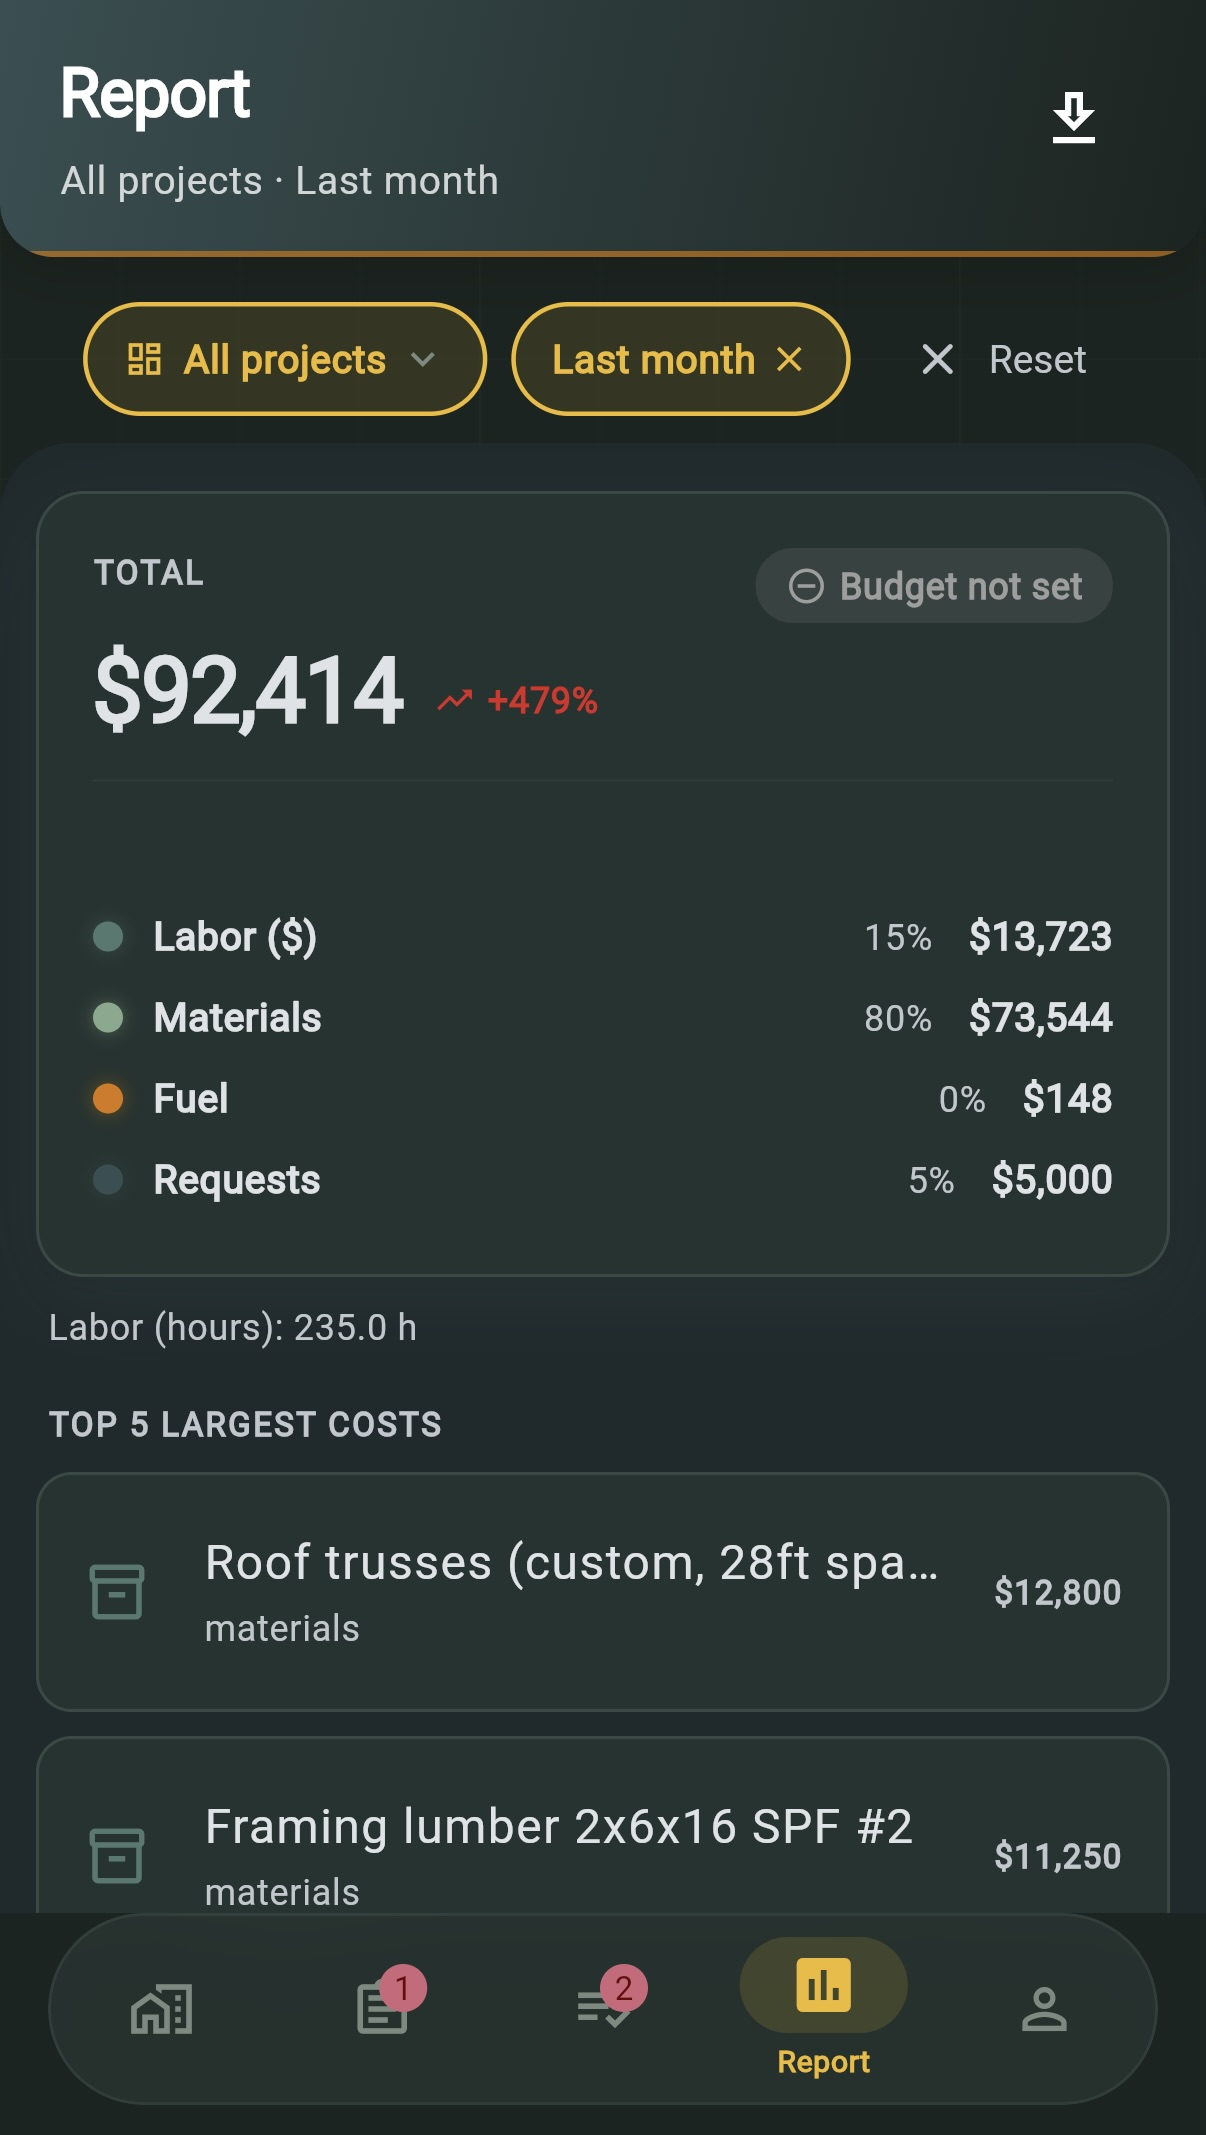
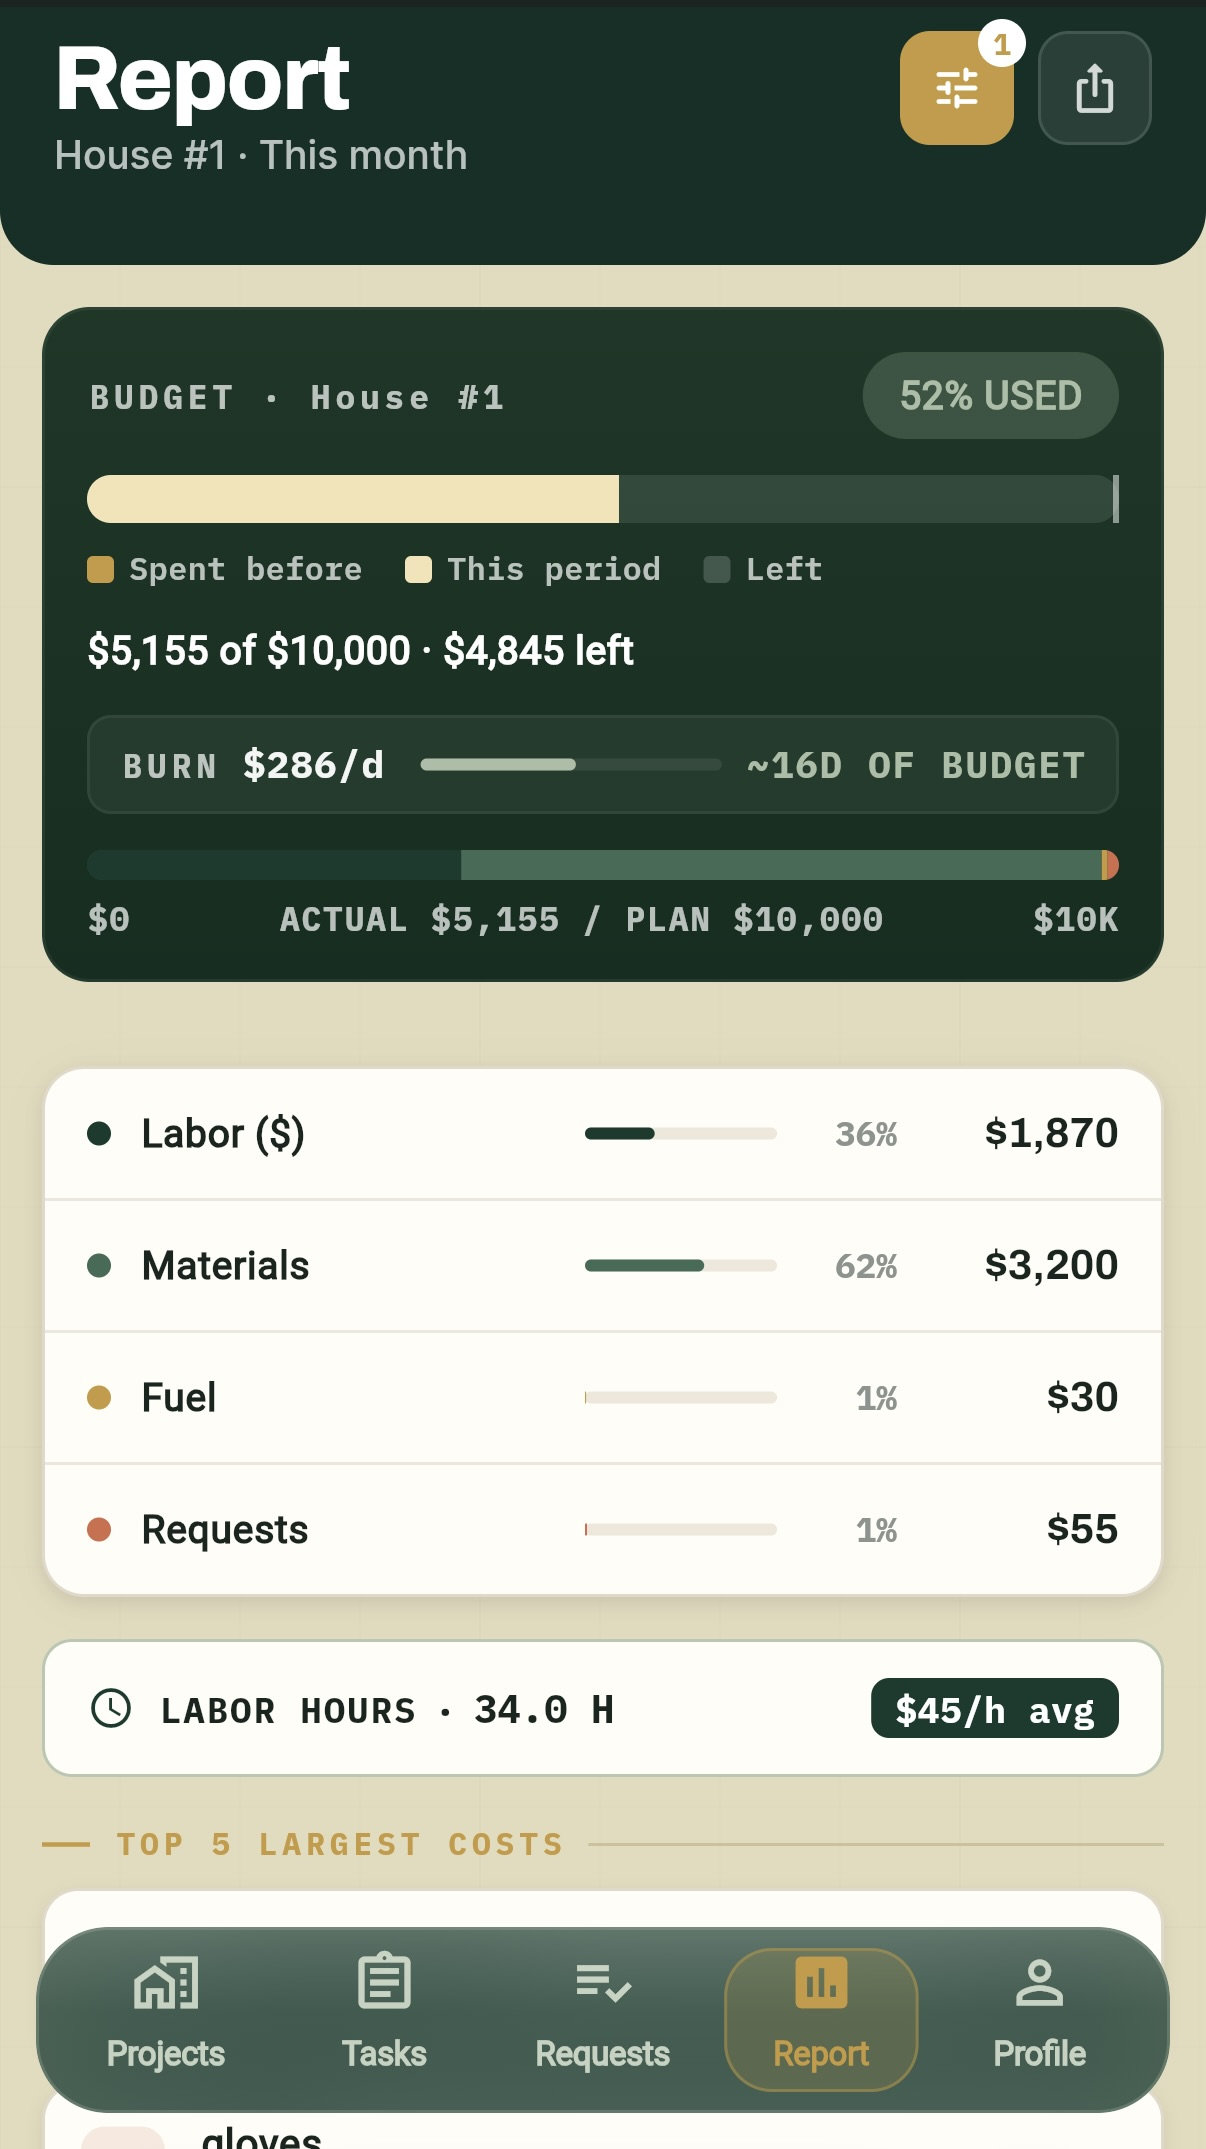
feat(how-it-works): refresh app screenshots to redesigned UI + drop fake notch
Swap the four How-it-works phone shots for the new forest/sage/cream
app build (was the orange pre-redesign UI) and update alt text to match:
projects overview, worker My Day, task detail w/ crew chat, project report.
Remove the drawn notch from both mobile and desktop phone mockups.

diff --git a/src/components/HowItWorks.tsx b/src/components/HowItWorks.tsx
@@ -21,7 +21,7 @@ const STEPS: Step[] = [
     body:
       "Name, address, plan number, and a rough budget. You're set up in under a minute — no onboarding call, no sales demo.",
     screenshot: "/screenshots/projects.jpeg",
-    alt: "Projects list screen",
+    alt: "Projects overview screen showing budgets and at-risk jobs",
   },
   {
     num: "02",
@@ -29,7 +29,7 @@ const STEPS: Step[] = [
     body:
       "Text them a link. They install in 30 seconds and tap their name. Workers only see what matters to them — their tasks, their hours, their paystub.",
     screenshot: "/screenshots/worker-view.jpeg",
-    alt: "Worker home screen",
+    alt: "Worker daily home screen with earnings, hours, and today's tasks",
   },
   {
     num: "03",
@@ -37,7 +37,7 @@ const STEPS: Step[] = [
     body:
       "Crew clocks in, logs materials and fuel, closes tasks. Everything works offline and syncs when signal comes back — no lost data, no duplicated entries.",
     screenshot: "/screenshots/tasks.jpeg",
-    alt: "Tasks and requests screen",
+    alt: "Task detail screen with progress and crew chat thread",
   },
   {
     num: "04",
@@ -45,7 +45,7 @@ const STEPS: Step[] = [
     body:
       "End of week, open the Report tab. Labor, materials, fuel, plan vs. actual — ready to export as PDF or CSV for your bookkeeper.",
     screenshot: "/screenshots/reports.jpeg",
-    alt: "Reports and P&L screen",
+    alt: "Project report screen with budget burn and plan vs. actual breakdown",
   },
 ];
 
@@ -171,7 +171,6 @@ export default function HowItWorks() {
                       handles the visual. */}
                   <div className="md:hidden mt-6 flex justify-center">
                     <div className="relative w-[240px] rounded-[36px] p-[8px] bg-gradient-to-br from-[#3a4a52] to-[#24313a] shadow-xl">
-                      <div className="absolute top-[12px] left-1/2 -translate-x-1/2 w-16 h-[15px] bg-[#0e1518] rounded-[10px] z-10" />
                       <div className="relative w-full aspect-[1206/2150] rounded-[28px] overflow-hidden bg-black/40">
                         <Image
                           src={step.screenshot}
@@ -201,9 +200,6 @@ export default function HowItWorks() {
 
               {/* Phone body */}
               <div className="relative rounded-[44px] p-[10px] bg-gradient-to-br from-[#3a4a52] to-[#24313a] shadow-[0_40px_80px_-20px_rgba(0,0,0,0.7),0_0_0_1px_rgba(202,210,197,0.08),0_0_80px_rgba(82,121,111,0.18)]">
-                {/* Notch */}
-                <div className="absolute top-[18px] left-1/2 -translate-x-1/2 w-24 h-[22px] bg-[#0e1518] rounded-[14px] z-10" />
-
                 {/* Screen */}
                 <div className="relative w-full aspect-[1206/2150] rounded-[34px] overflow-hidden bg-black/40">
                   {STEPS.map((s, i) => (
